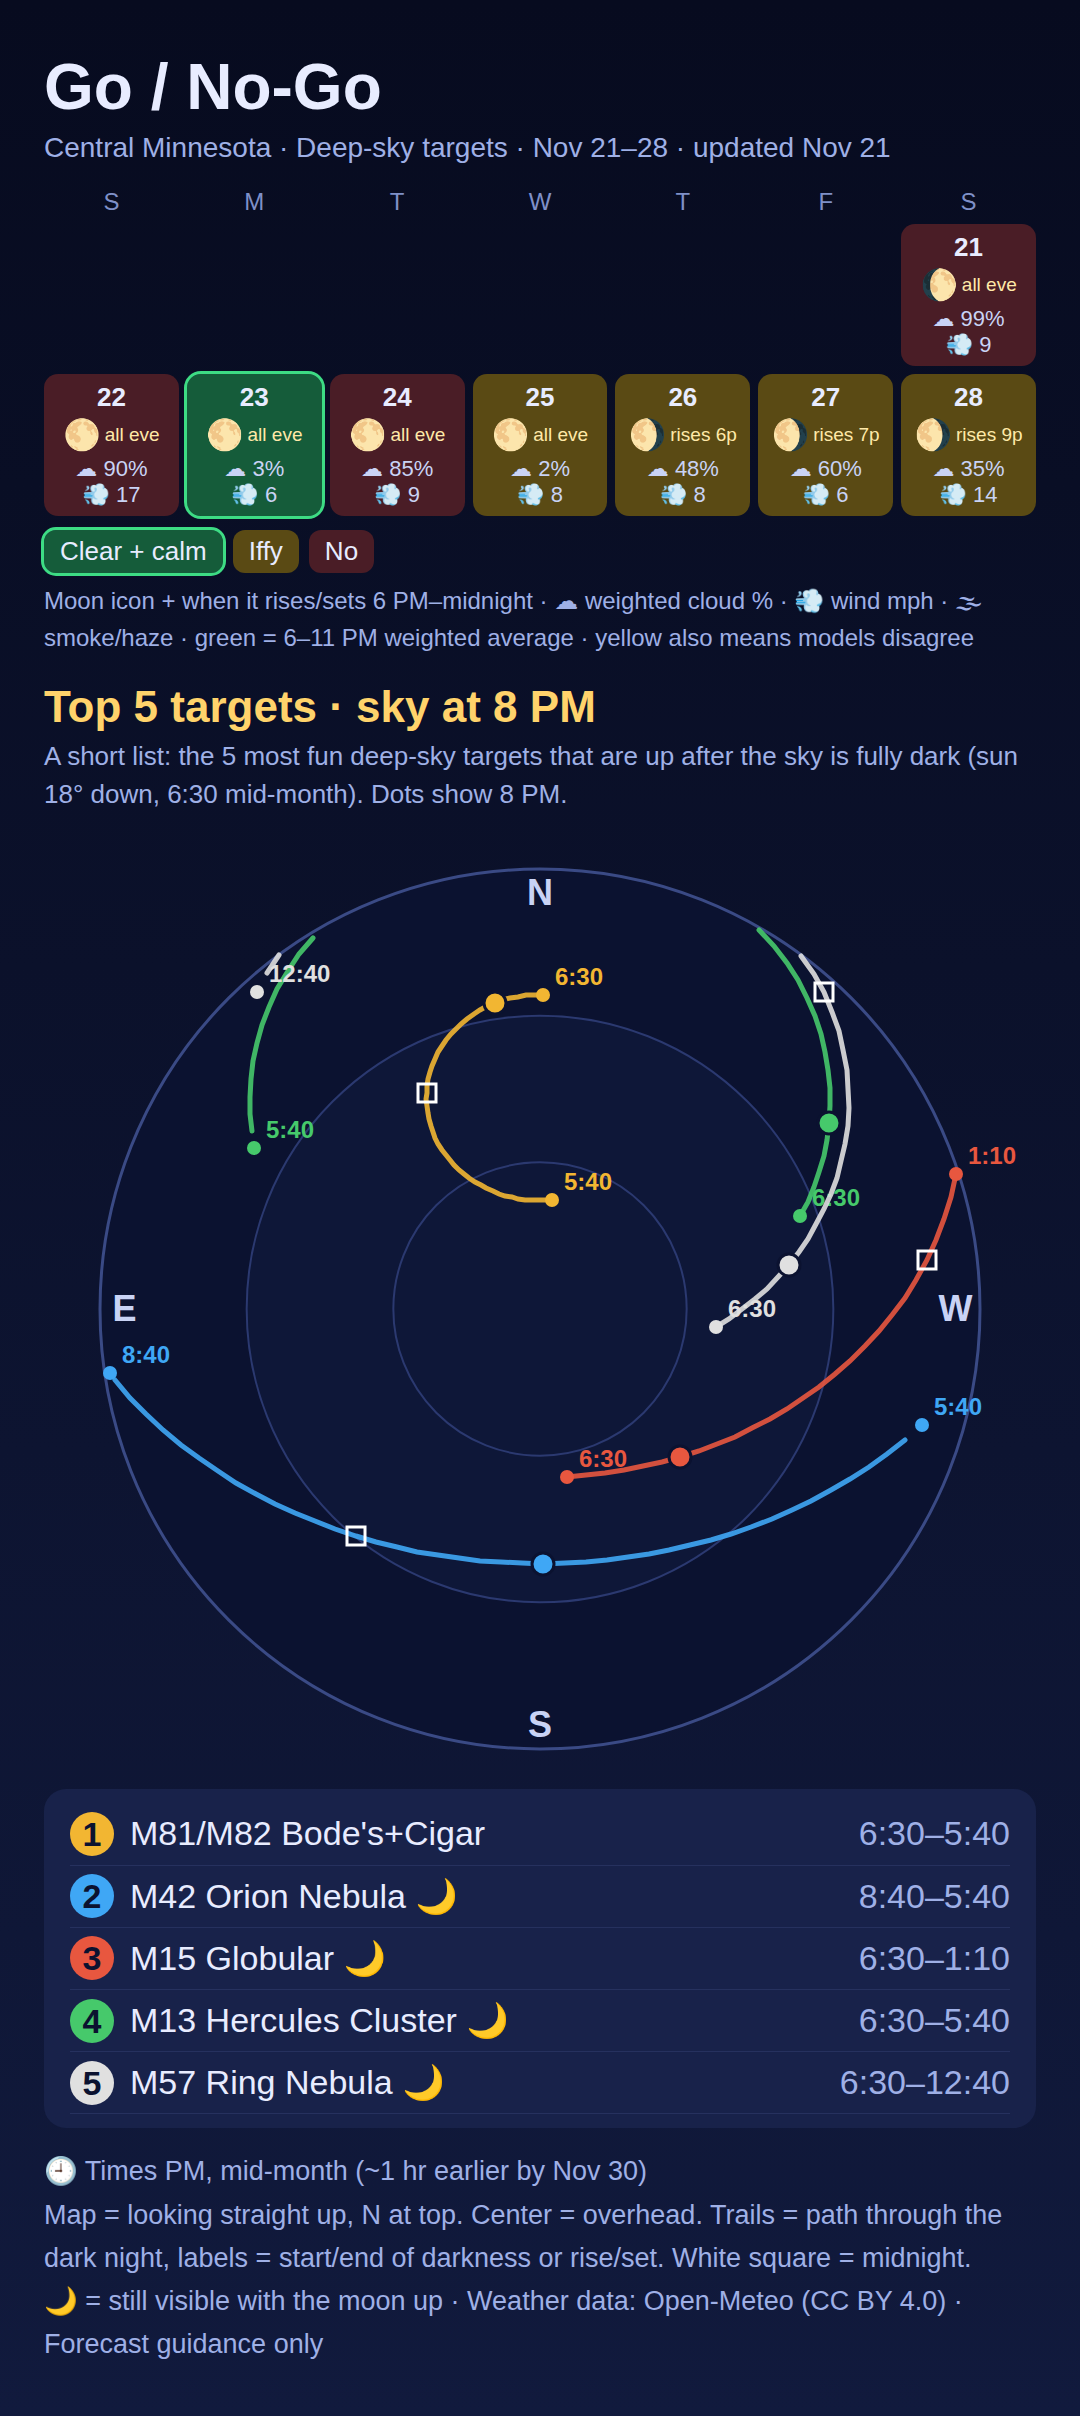
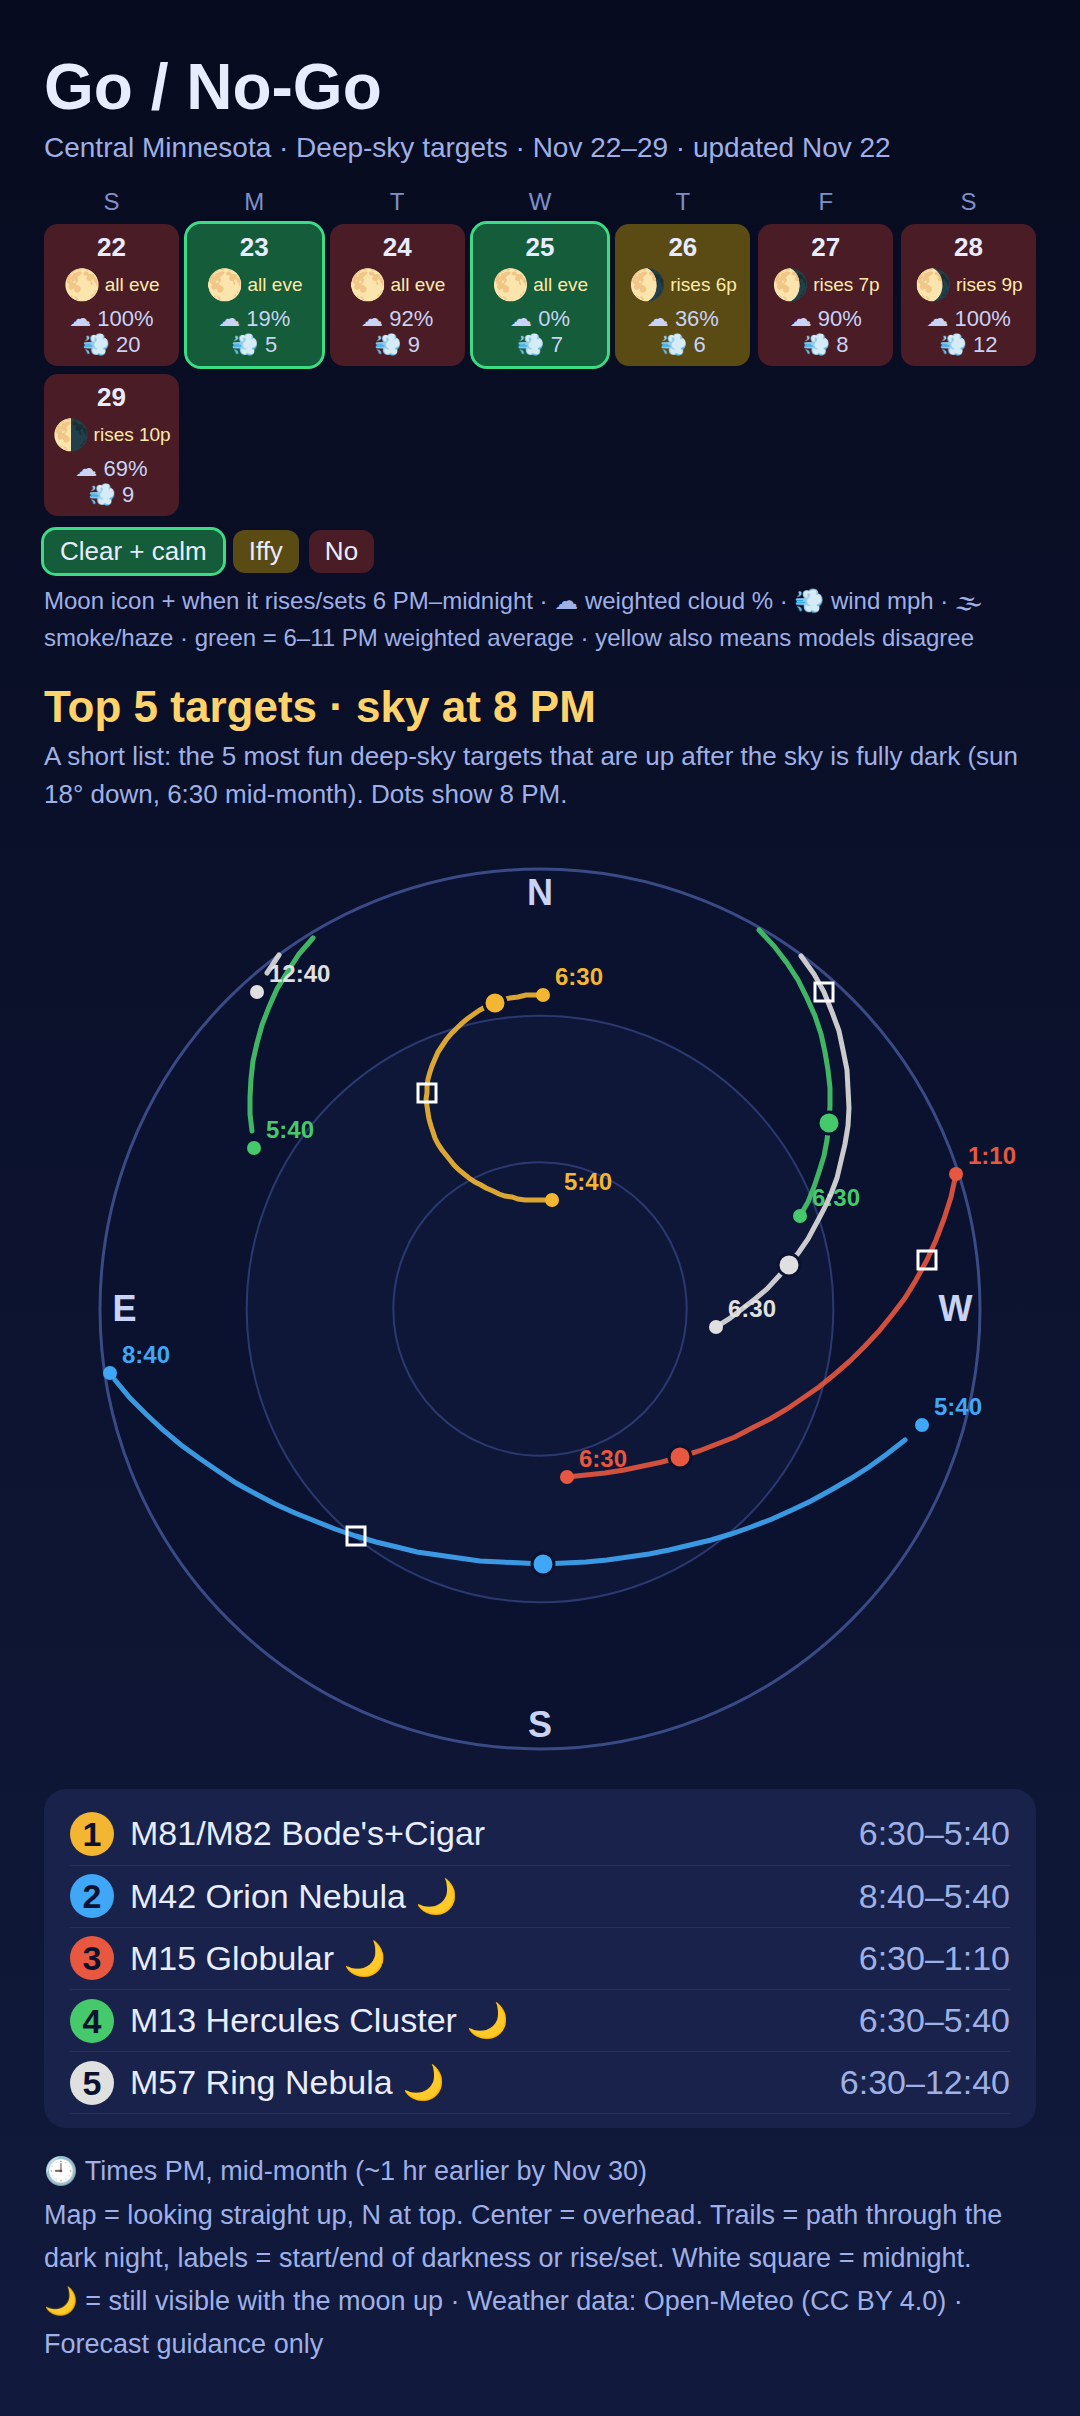
Update stargazing forecast (Nov 22)

Changed region(s): [[0.0306, 0.0931, 0.9778, 0.2173]]

diff --git a/_includes/forecast_status.html b/_includes/forecast_status.html
@@ -1,2 +1,2 @@
-<p class="notice--info"><strong>Forecast updated Nov 21:</strong> Next good night: Mon Nov 23 (low confidence): M15 Globular, 6:30 pm-9:40 pm (clear 5.5h, longest 6:30 pm-12:00 am, low 21F)</p>
+<p class="notice--info"><strong>Forecast updated Nov 22:</strong> Next good night: Mon Nov 23 (models disagree): M15 Globular, 7:00 pm-9:40 pm (clear 5.0h, longest 7:00 pm-12:00 am, low 14F)</p>
 <p class="small">Weather data: <a href="https://open-meteo.com/">Open-Meteo</a> (CC BY 4.0). Forecast guidance only — check the sky before heading out.</p>

diff --git a/_posts/1900-01-01-about.md b/_posts/1900-01-01-about.md
@@ -1,6 +1,6 @@
 ---
 title: Coming up
-date: 2026-11-21
+date: 2026-11-22
 header:
   teaser: /images/month.png
 ---
